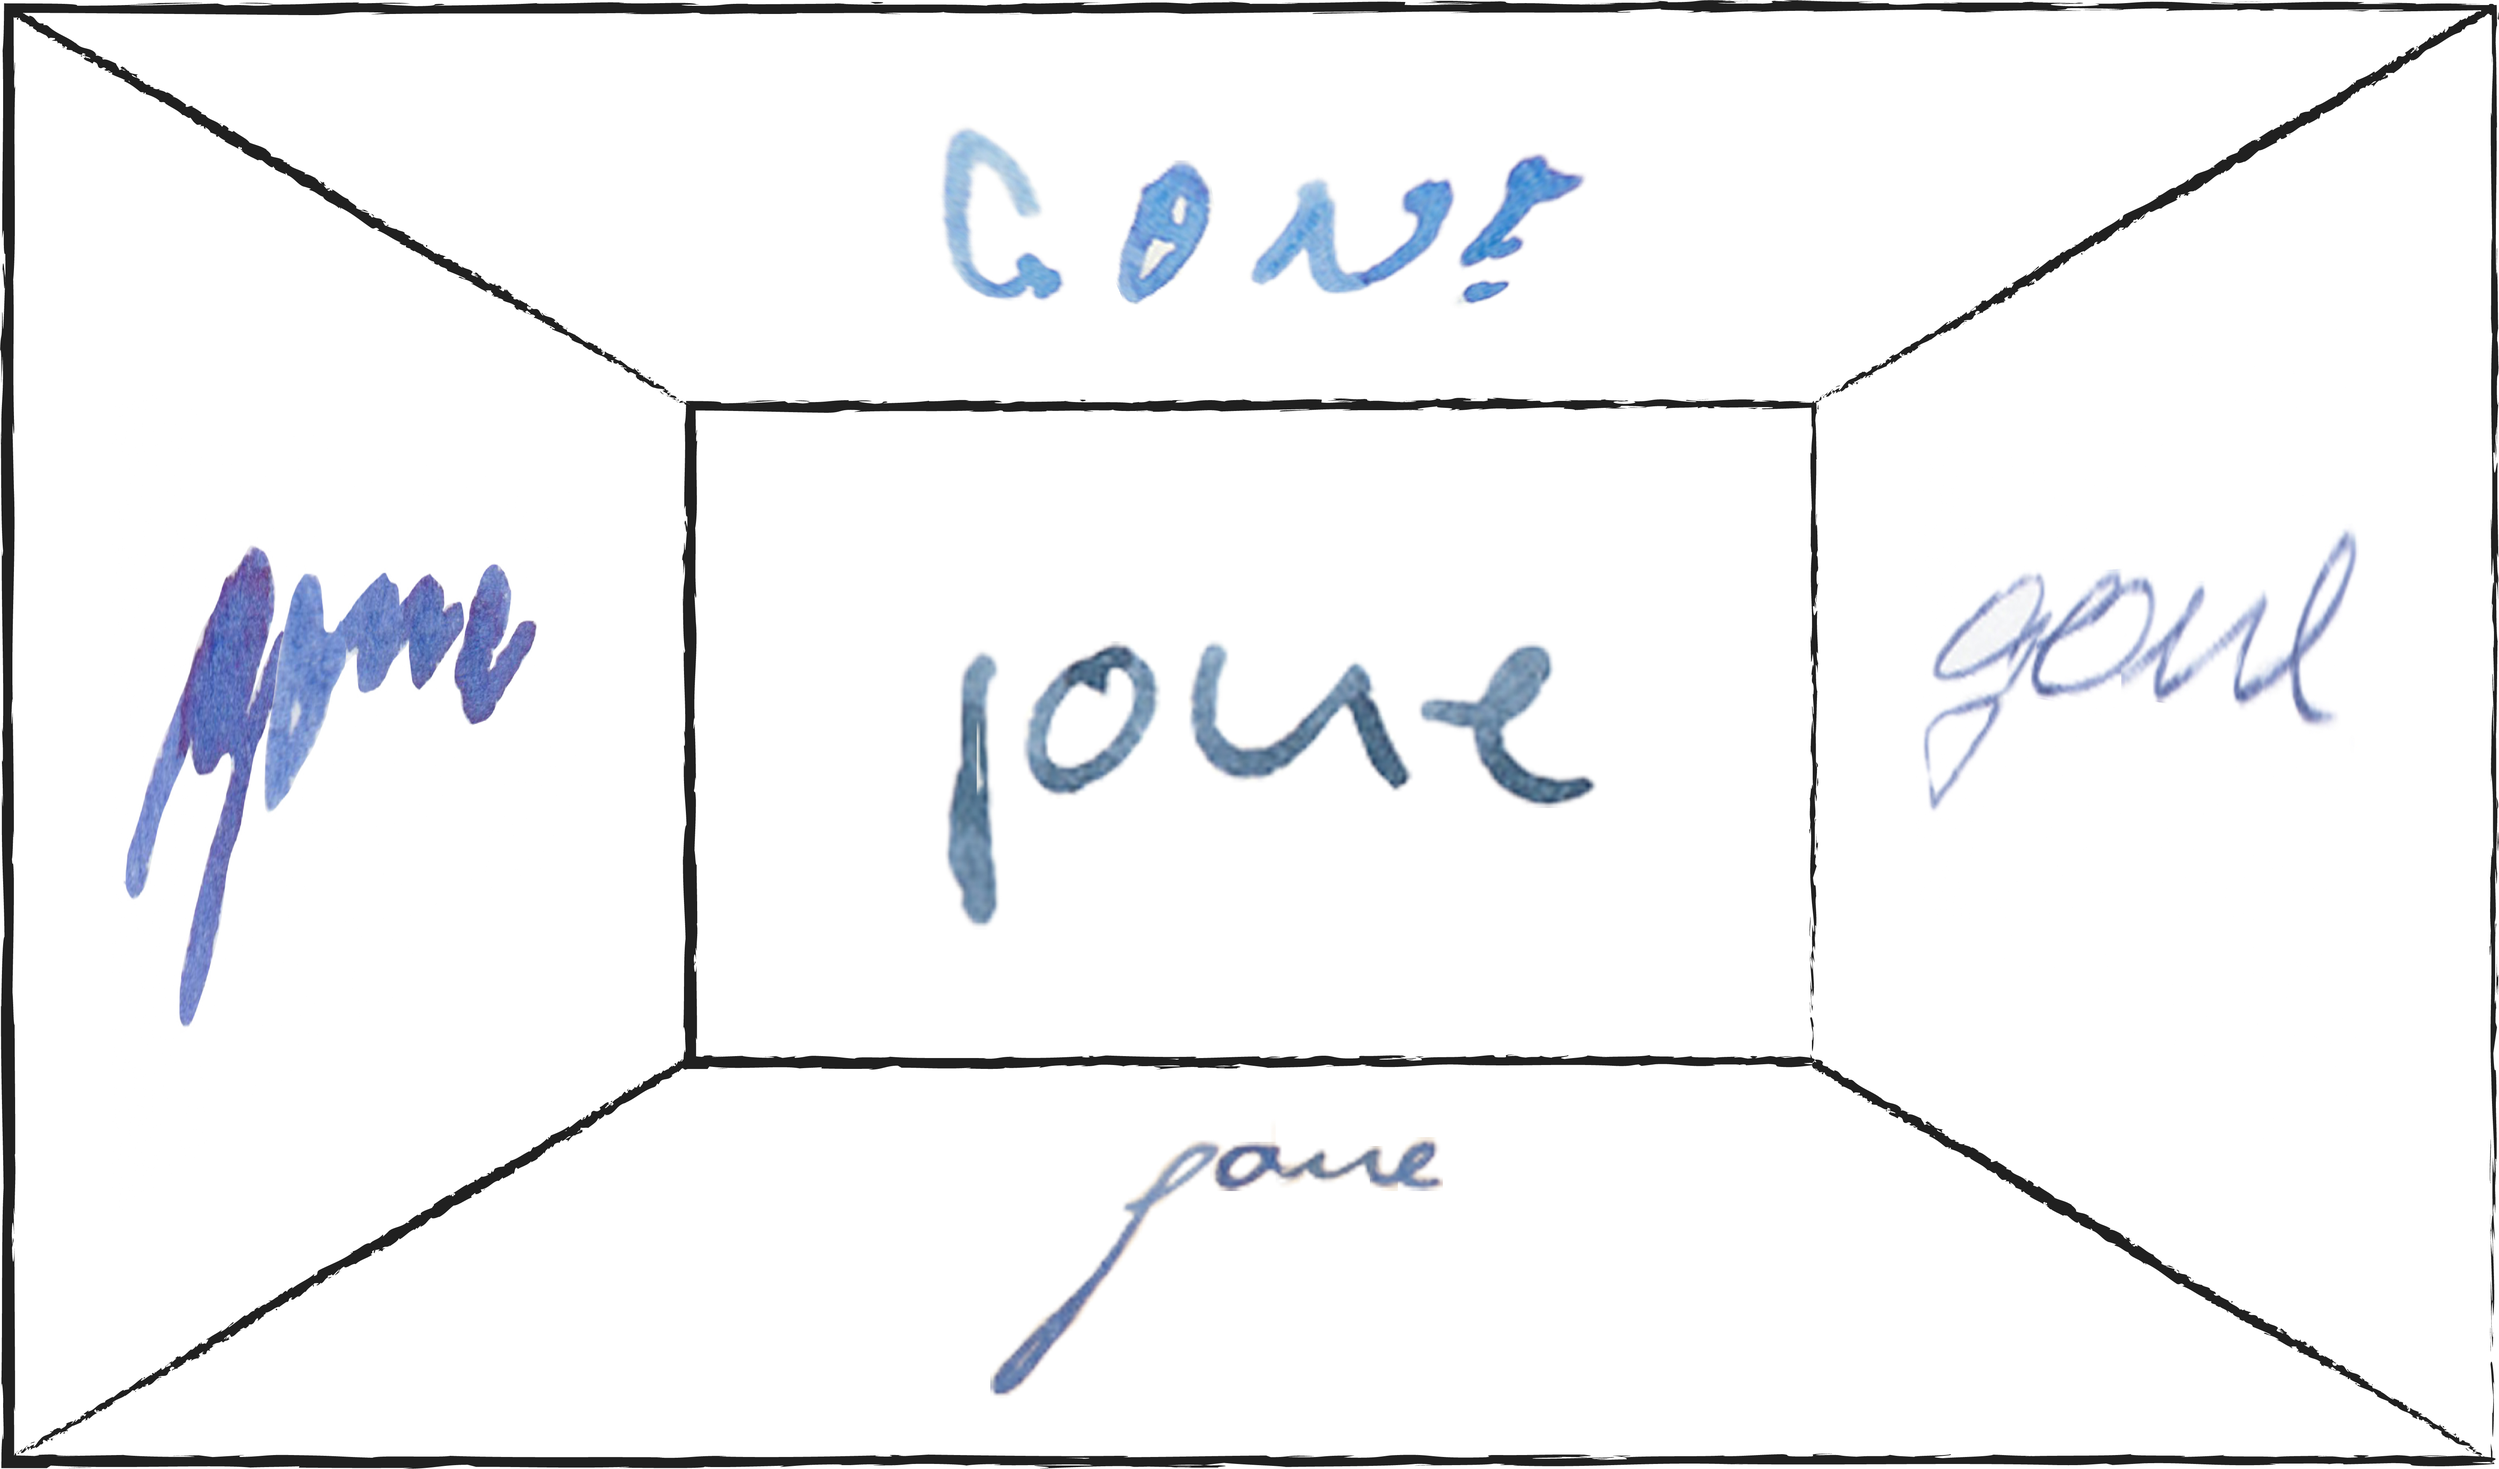
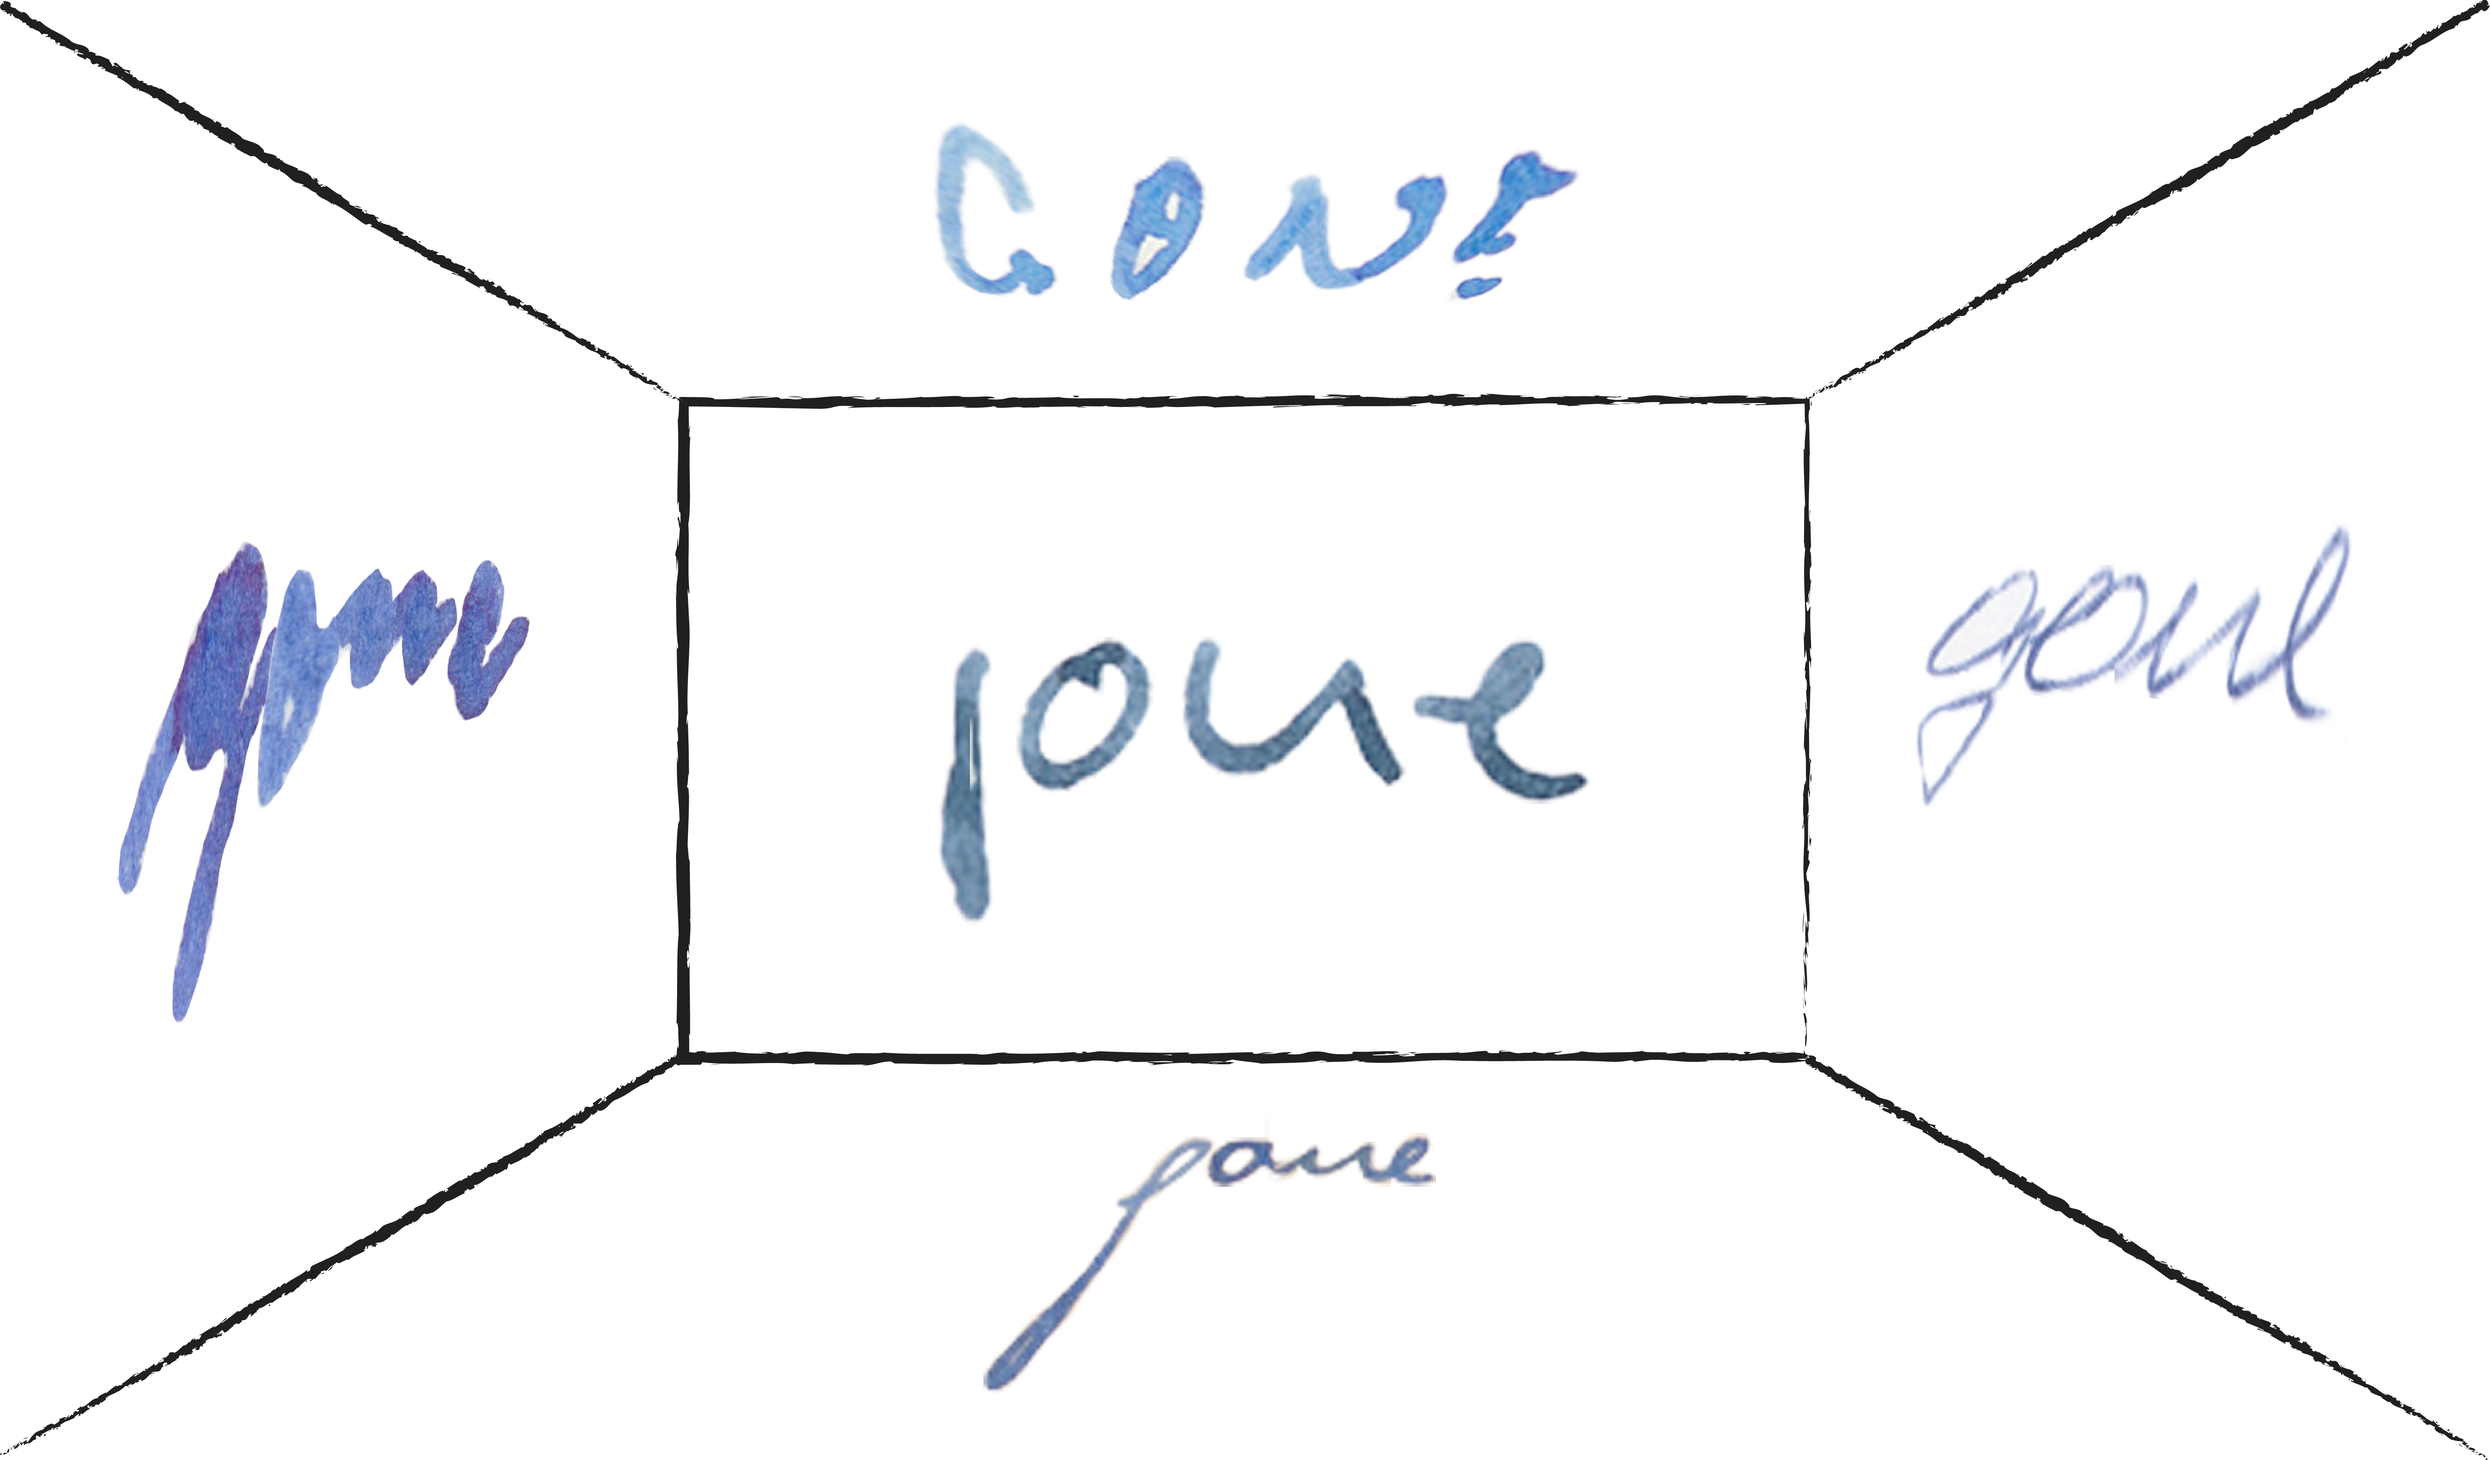
Make room fullscreen

diff --git a/css/style.css b/css/style.css
@@ -1,3 +1,9 @@
+body,
+html {
+  height: 100%;
+  margin: 0;
+}
+
 /* Index */
 
 #index-table {
@@ -63,13 +69,13 @@ table tr td:last-child {
 
 /* Raum Gone */
 
-.raum {
+/* .raum {
   width: 80vw;
   position: fixed;
   top: 50%;
   left: 50%;
   transform: translate(-50%, -50%);
-}
+} */
 
 .nav-back {
   position: fixed;
@@ -77,4 +83,12 @@ table tr td:last-child {
   left: 5vw;
   font-size: 30px;
   color: black;
+}
+
+.background {
+  background-image: url("../img/raum_gone.jpg");
+  height: 100%;
+  background-position: center;
+  background-repeat: no-repeat;
+  background-size: cover;
 }

diff --git a/html/gone.html b/html/gone.html
@@ -13,6 +13,7 @@
     <a href="../index.html" class="nav-back">
       <i class="fa fa-angle-double-left"></i
     ></a>
-    <img src="../img/raum_gone.jpg" alt="gone" class="raum" />
+    <div class="background"></div>
+    <!-- <img src="../img/raum_gone.jpg" alt="gone" class="raum" /> -->
   </body>
 </html>

diff --git a/thair.html b/thair.html
@@ -11,7 +11,7 @@
   </head>
 
   <body>
-    <a href="../index.html" class="nav-back">
+    <a href="./index.html" class="nav-back">
       <i class="fa fa-angle-double-left"></i
     ></a>
     <h1 class="title">n o t h e r e</h1>
